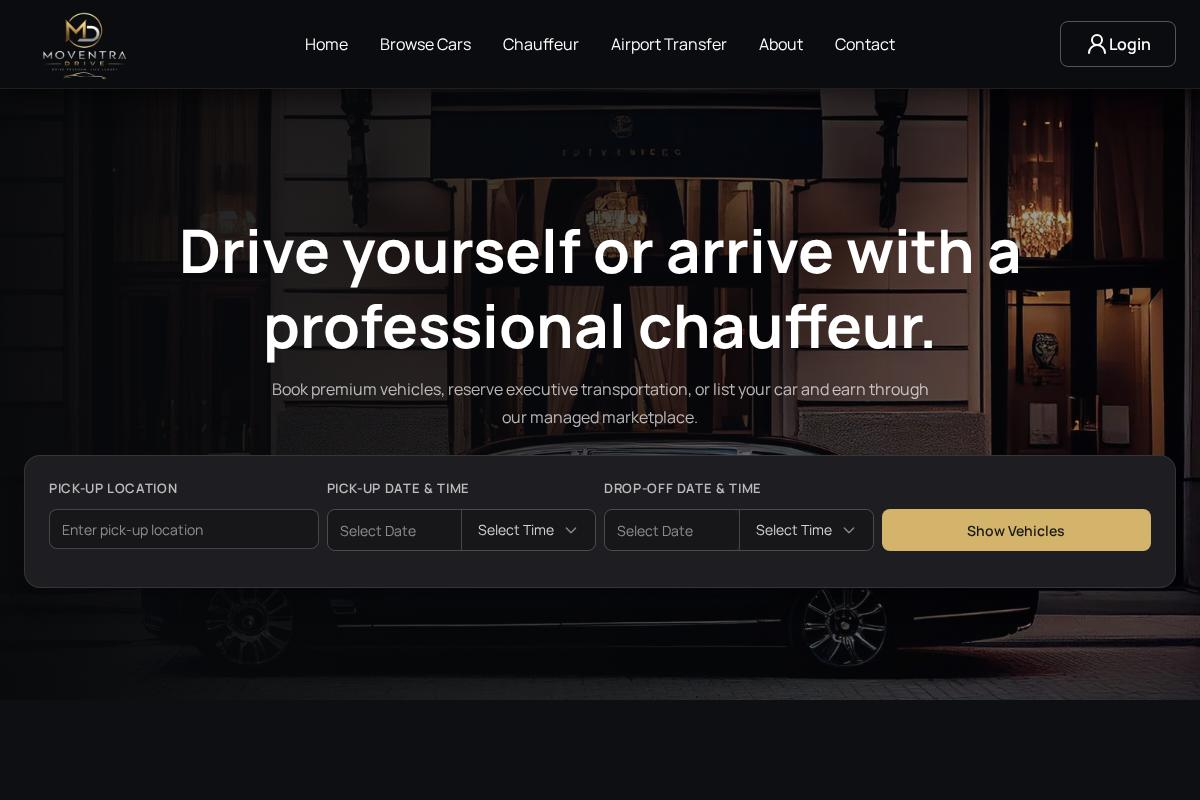
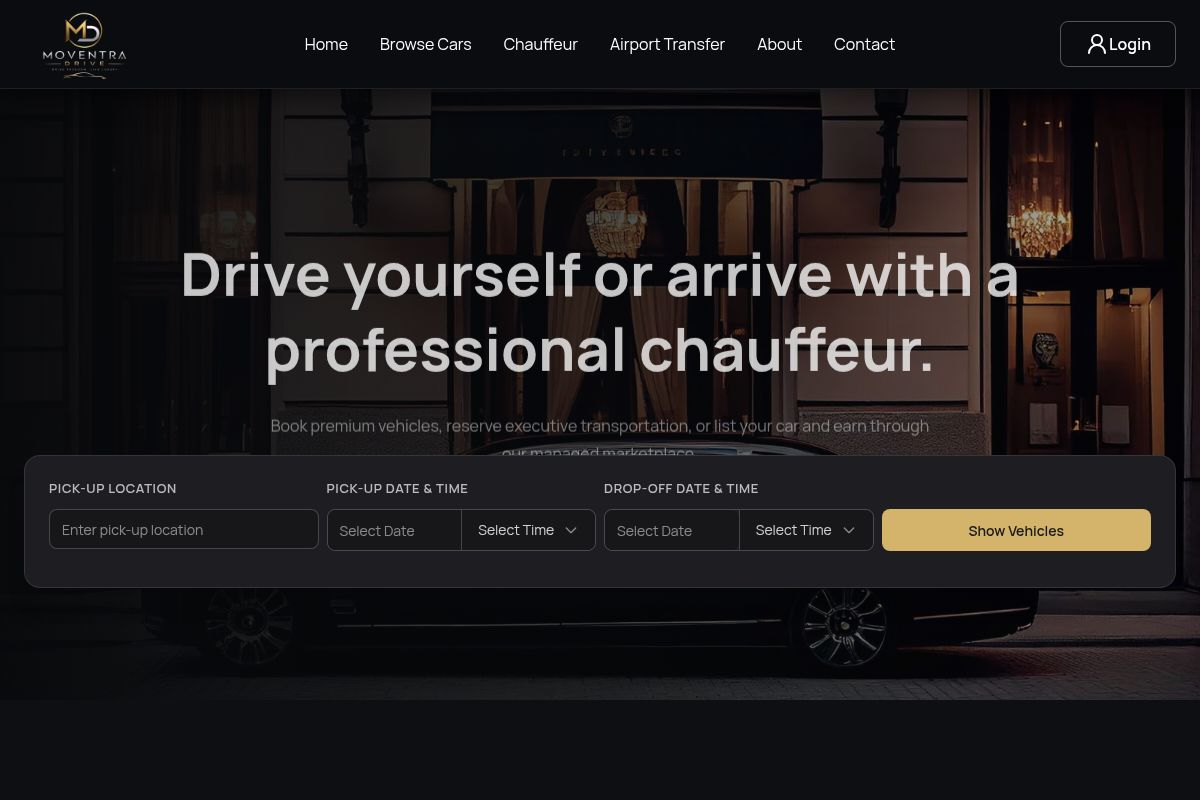
Add Cuts Without Borders, Gospel Brunch Sundays, Wow Body Shop projects; refresh Moventra Drive screenshot

diff --git a/index.html b/index.html
@@ -286,7 +286,10 @@ var projects=[
  {title:'MemoryClick',tag:'web',desc:'Photography and memories platform.',url:'https://memoryclick.com.bd/',shot:'assets/shots/memoryclick.jpg'},
  {title:'Moventra Drive',tag:'web',desc:'Vehicle and driving services platform.',url:'https://moventradrive.com/',shot:'assets/shots/moventra.jpg'},
  {title:'CastingBD',tag:'web',desc:'Talent casting and media platform.',url:'https://castingbd.com/',shot:'assets/shots/castingbd.jpg'},
- {title:'BlackBossBD',tag:'ecommerce',desc:'Premium fashion brand store.',url:'https://blackbossbd.com/',shot:'assets/shots/blackbossbd.jpg'}
+ {title:'BlackBossBD',tag:'ecommerce',desc:'Premium fashion brand store.',url:'https://blackbossbd.com/',shot:'assets/shots/blackbossbd.jpg'},
+ {title:'Cuts Without Borders',tag:'web',desc:'Global barber directory for textured hair.',url:'https://cutswithoutborders.com/',shot:'assets/shots/cutswithoutborders.jpg'},
+ {title:'Gospel Brunch Sundays',tag:'web',desc:'Gospel brunch event series with live music.',url:'https://gospelbrunchsundays.com/',shot:'assets/shots/gospelbrunchsundays.jpg'},
+ {title:'Wow Body Shop',tag:'web',desc:'Premium auto body & collision repair in Montréal.',url:'https://wowbodyshop.ca/',shot:'assets/shots/wowbodyshop.jpg'}
 ];
 var tags=[['all','All'],['web','Web Platforms'],['ecommerce','E-commerce'],['fintech','Fintech'],['education','Education']];
 var fb=document.getElementById('filterBtns'),pg=document.getElementById('projectsGrid');
